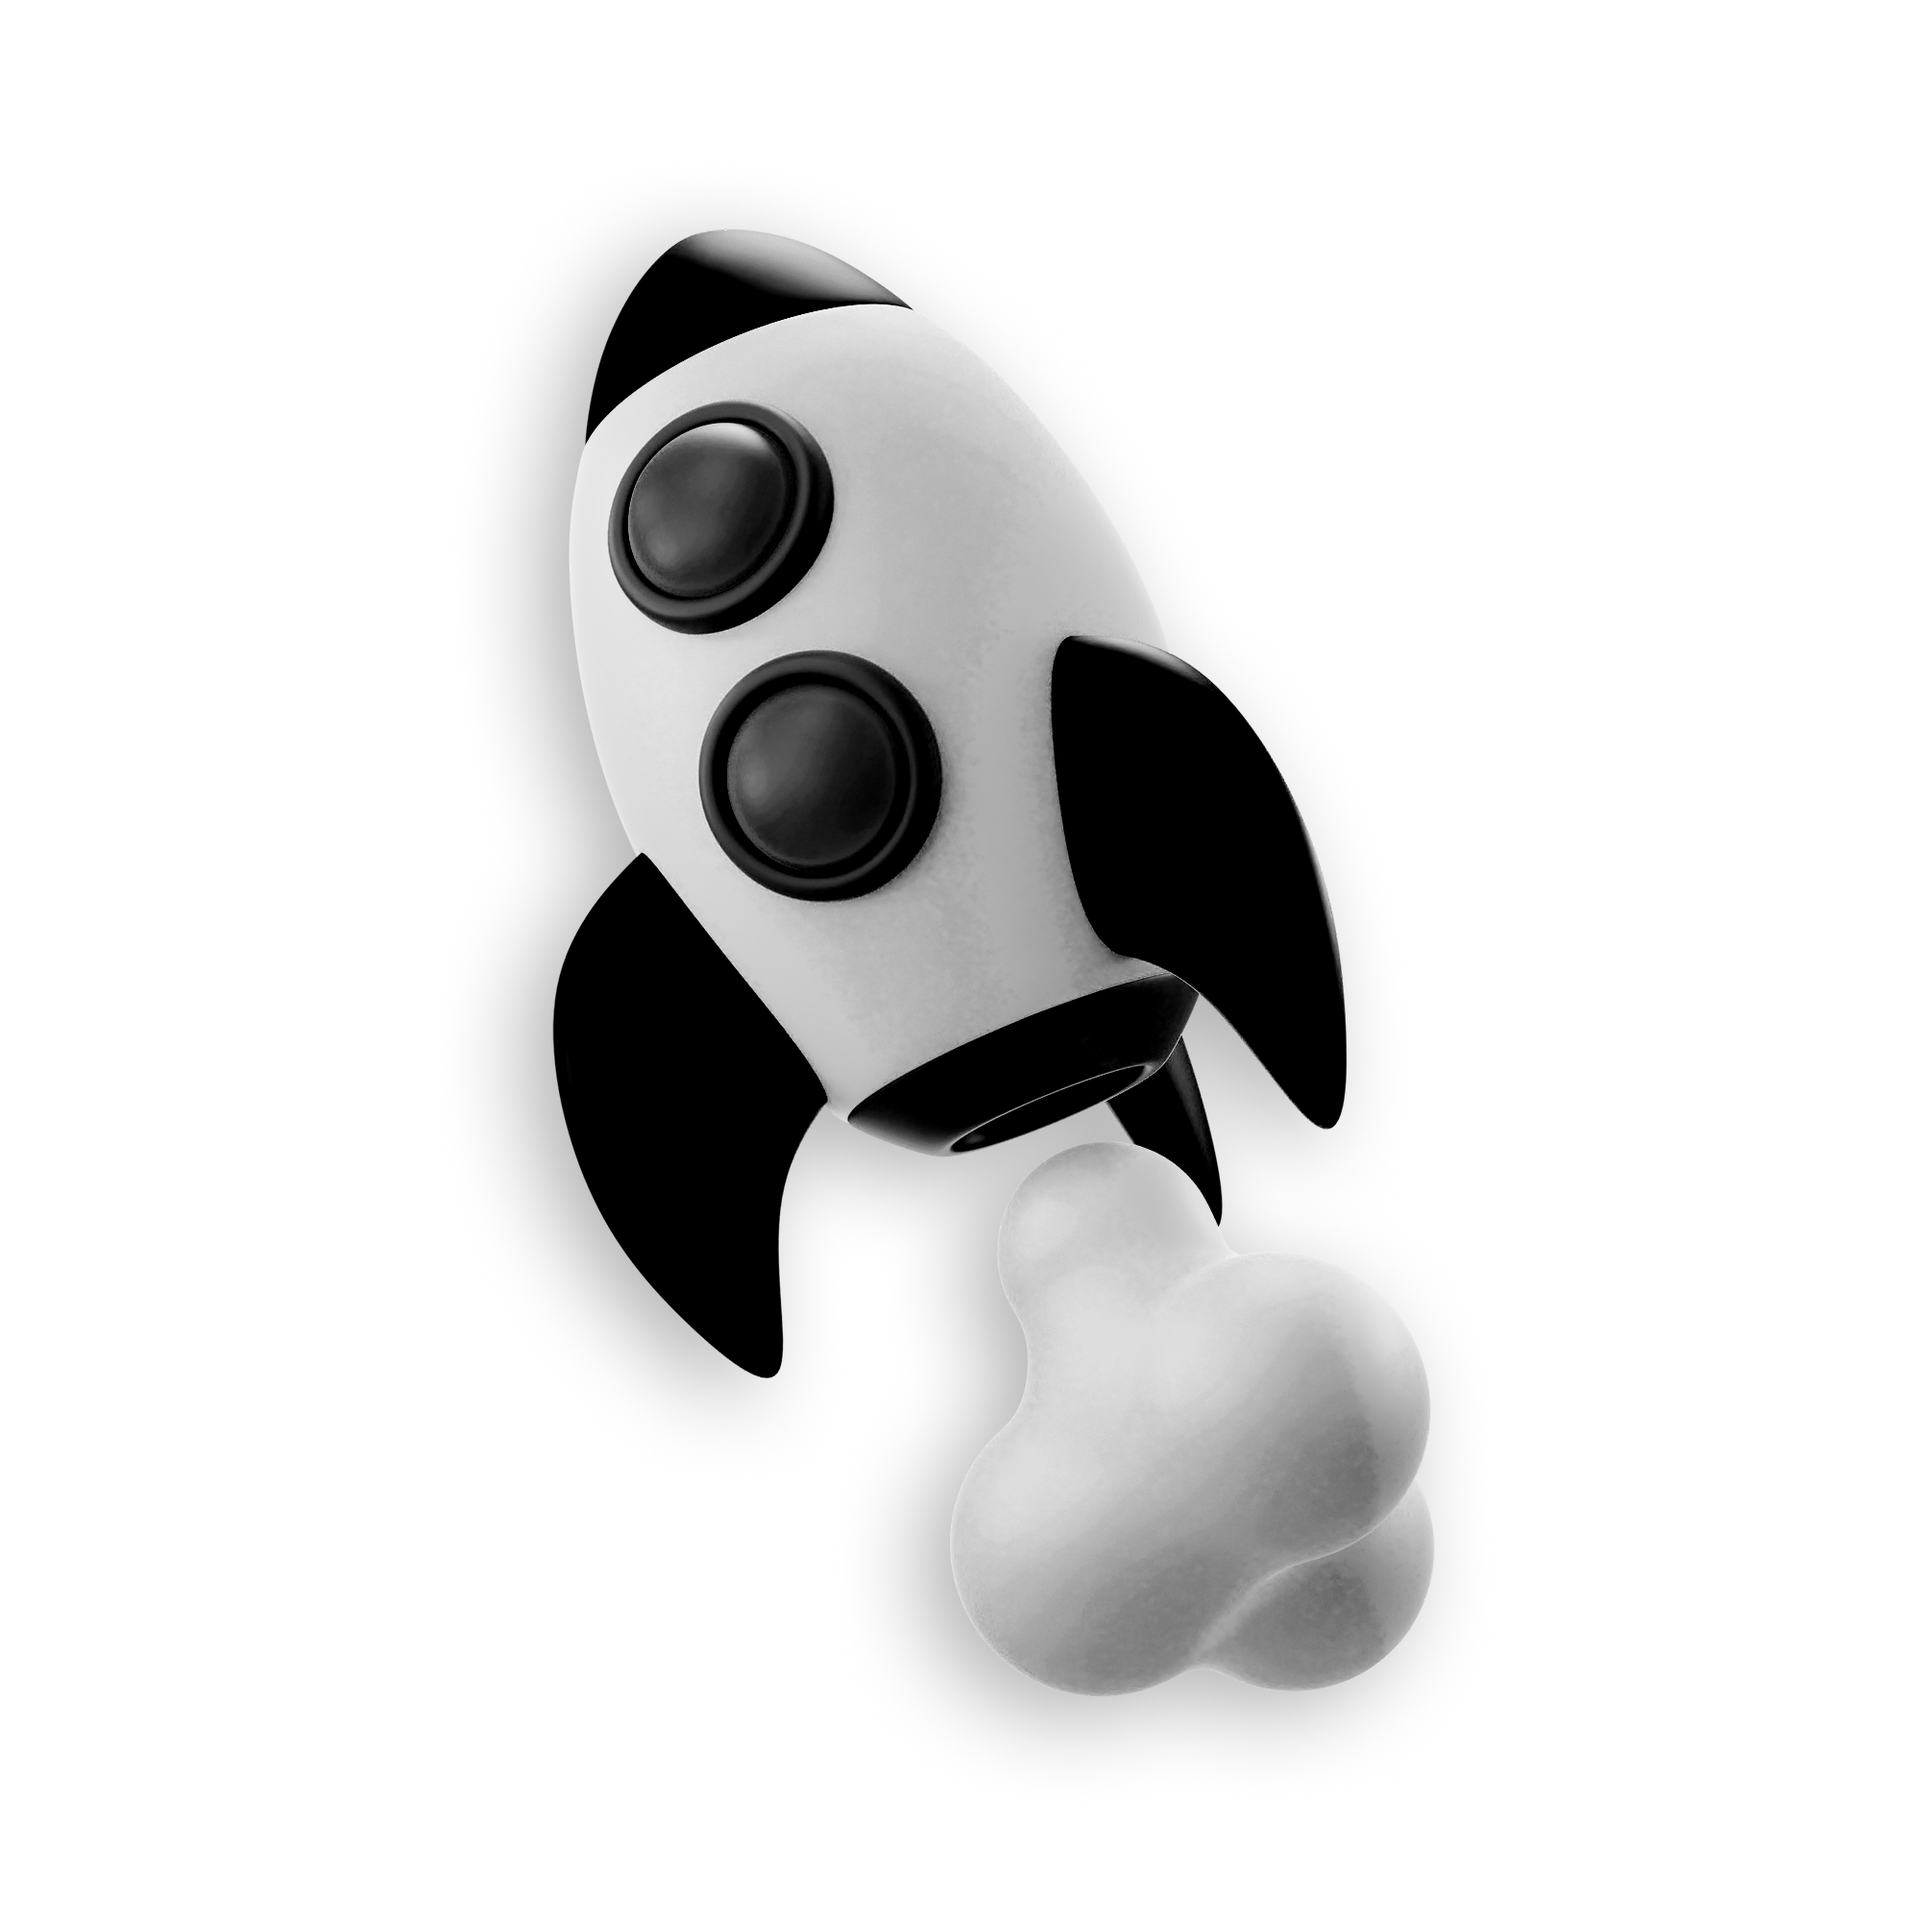
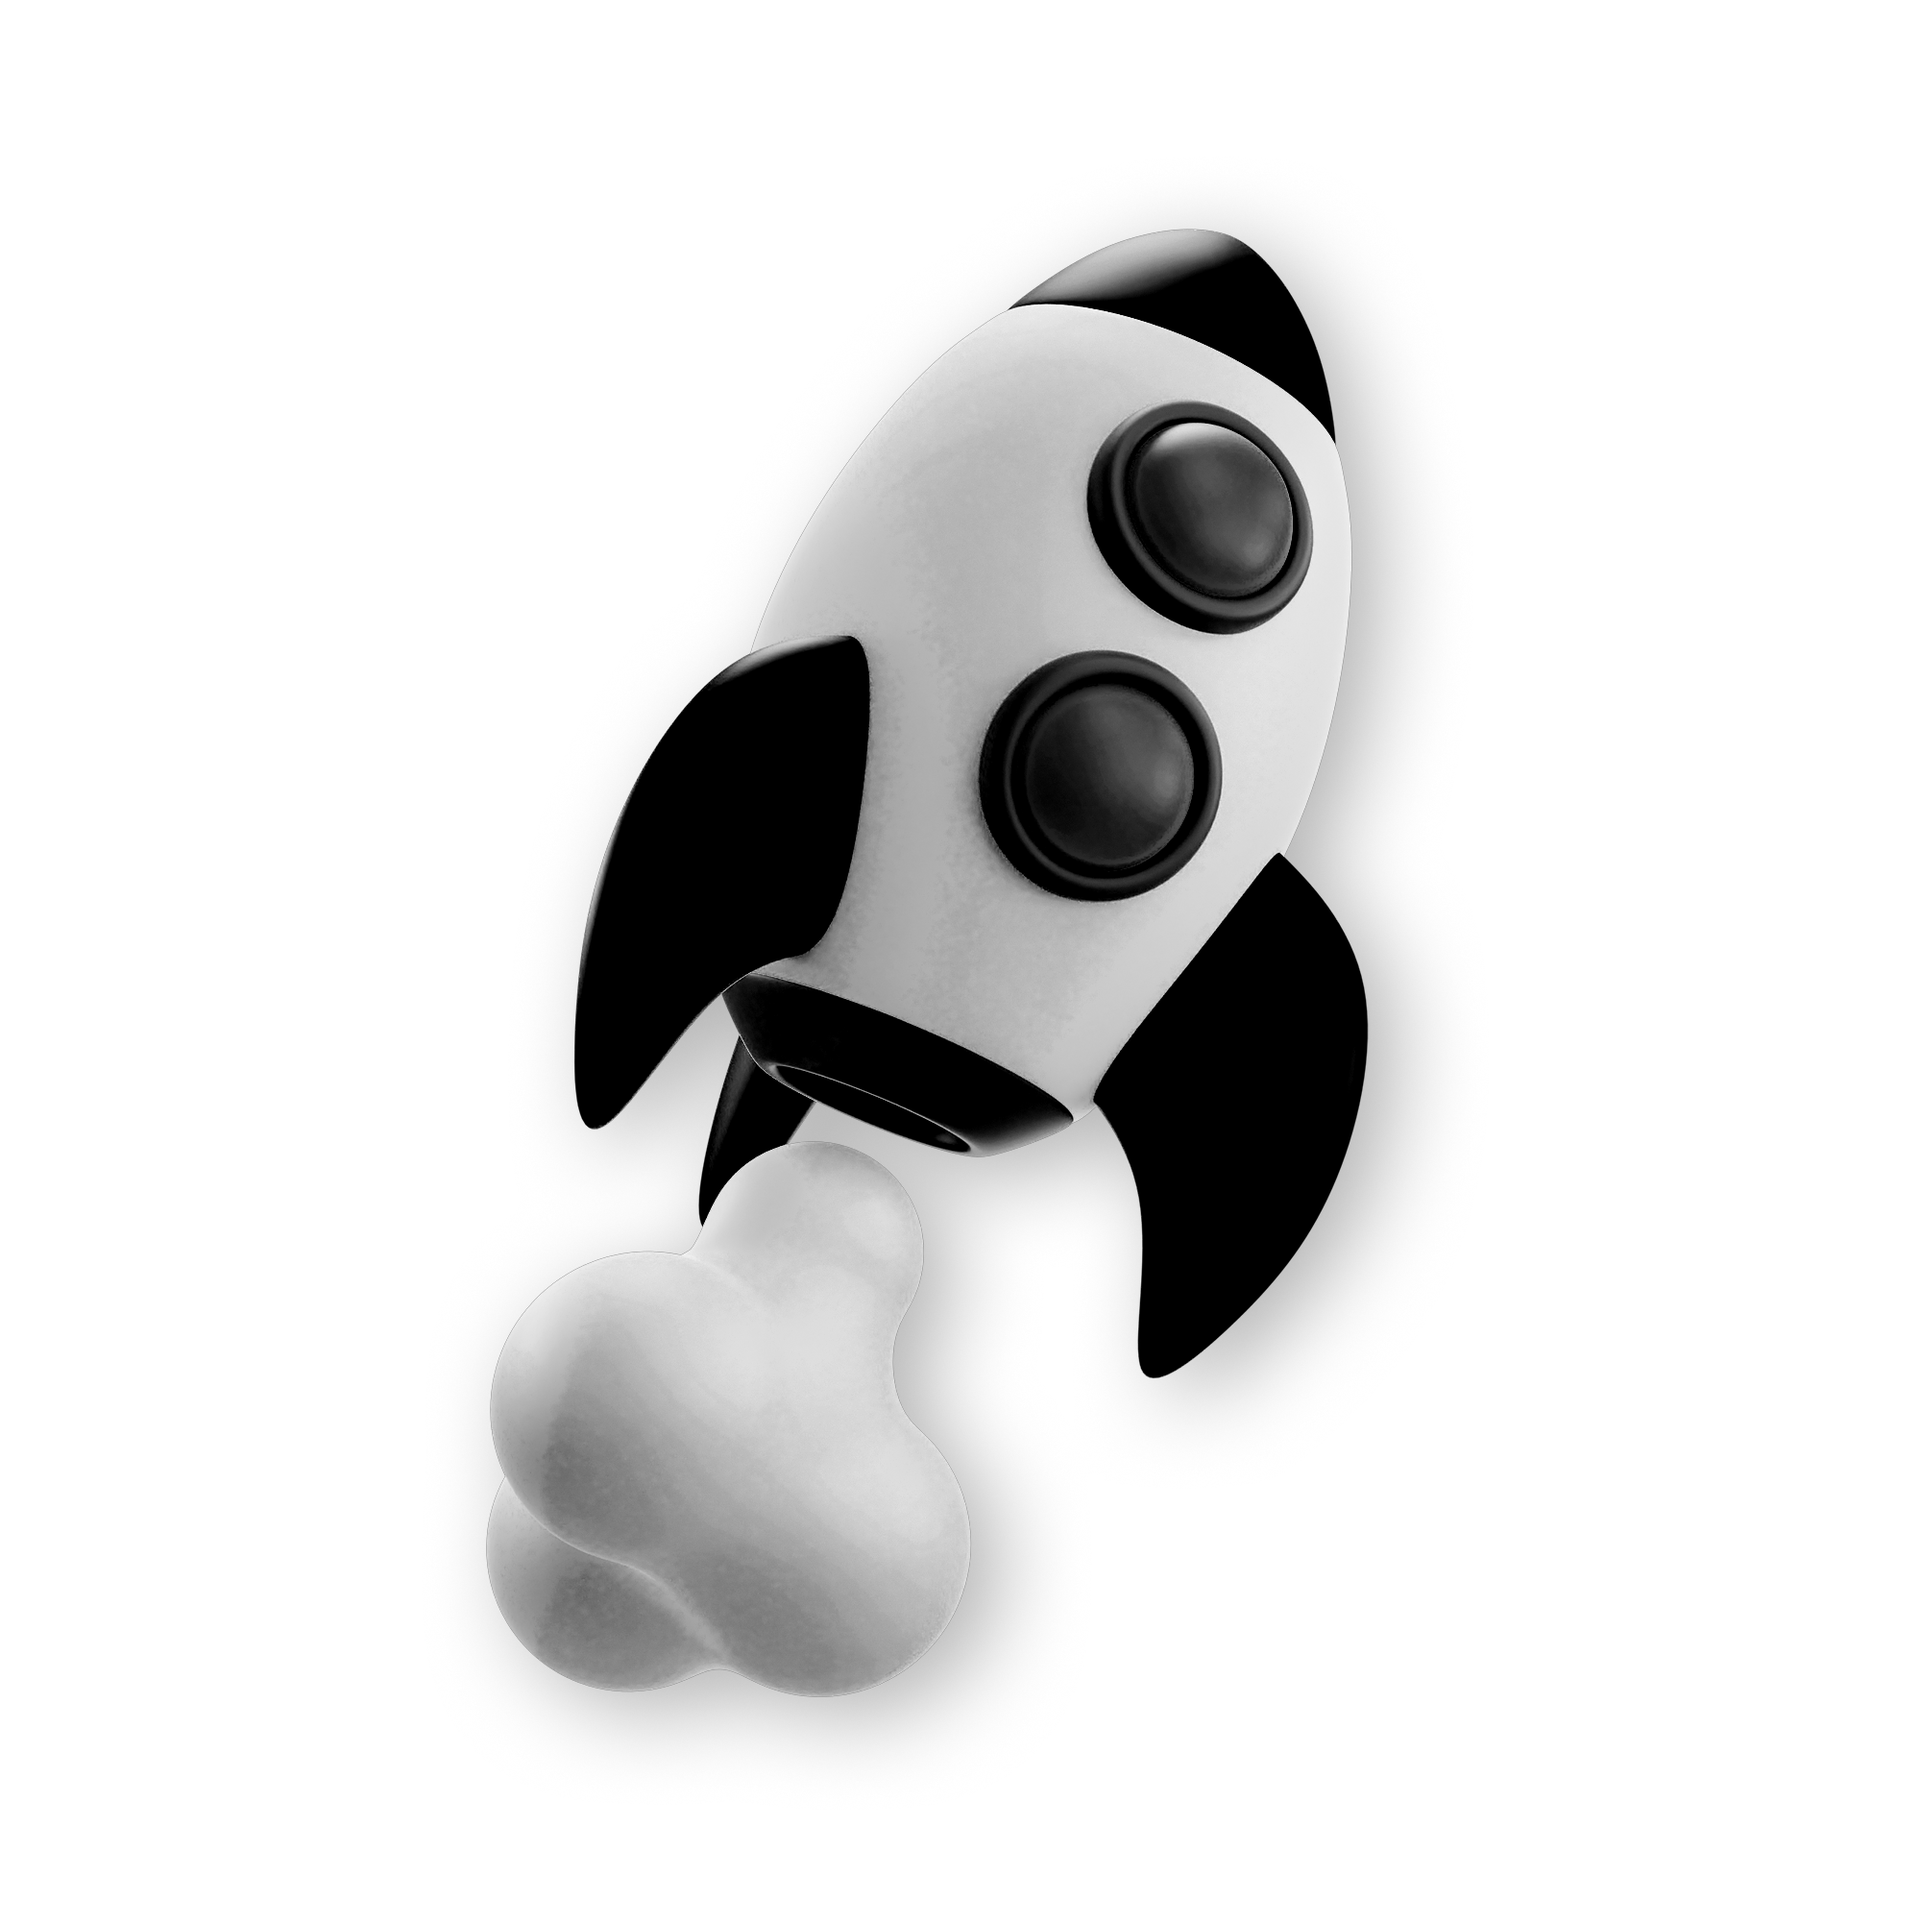
Mejora de ortografia e imagenes

Changed region(s): [[0.248, 0.093, 0.744, 0.899]]

diff --git a/src/components/Introduction/Introduction.tsx b/src/components/Introduction/Introduction.tsx
@@ -38,7 +38,7 @@ export function Introduction() {
                     animate="show"
                     exit="hidden"
                 >
-                    <Image src="/assets/Cohete.png" priority width="550" height="125" alt="Avatar" className='transform scale-x-[-1]'/>
+                    <Image src="/assets/Cohete.png" priority width="550" height="125" alt=""/>
                 </motion.div>
 
                 <motion.div variants={fadeIn("left", 0.5)}
@@ -47,14 +47,14 @@ export function Introduction() {
                     exit="hidden"
                 >
                     <h1 className="mb-5 text-4xl leading-tight md:mb-10 text-black">Soluciones de   <br />
-                        <span className="text-black">diseños a medida</span></h1>
+                        <span className="text-black">diseños a medida.</span></h1>
                     <p className="max-w-sm  mb-10 text-xl md:max-w-6xl md:mx-0 md:mb-16 md:text-2xl text-black">
-                        Transformamos tus ideas en realidad <br />
+                        Transformamos tus ideas en realidad.<br />
                     </p>
 
                     <div className="flex flex-col items-center gap-3 md:gap-10 md:flex-row">
                         <button onClick={openContactModal} className="px-6 py-3 my-2 transition-all border-2 cursor-pointer border-black rounded-xl hover:shadow-xl hover:shadow-black bg-black">
-                            Contactanos
+                            Contáctanos
                         </button>
                     </div>
                 </motion.div>

diff --git a/src/components/Circle/Circle.tsx b/src/components/Circle/Circle.tsx
@@ -5,8 +5,9 @@ import Image from 'next/image'
 
 export function Circle() {
     return (
-        <motion.div variants={fadeIn('left', 0.5)} initial="hidden" animate="show" exit="hidden " className="bottom-0 right-0 hidden md:inline-block md:absolute -z-10">
-            <Image src="/assets/Pincel.png" width="350" height="350" className="w-full h-full" alt="Circle" />
-        </motion.div>
+        <motion.div variants={fadeIn('left', 0.5)} initial="hidden" animate="show" exit="hidden" className="bottom-0 right-0 hidden md:inline-block md:absolute -z-10" style={{ width: '33%', height: '50%' }}>
+    <Image src="/assets/Pincel.png" width={10} height={10} layout="responsive" className="w-full h-full" alt="" unoptimized />
+</motion.div>
+
     )
 }
